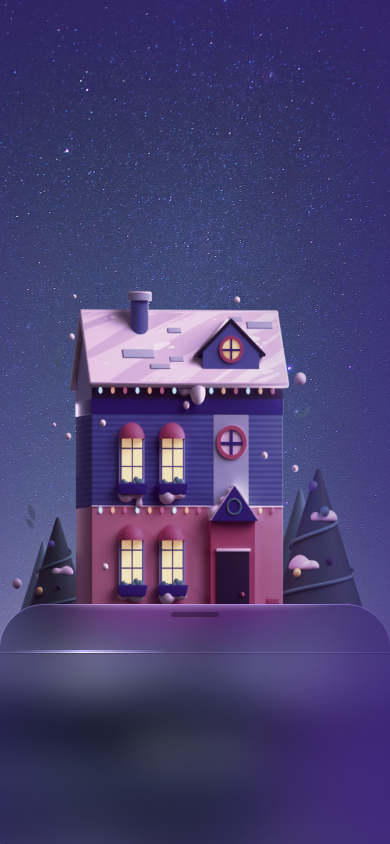
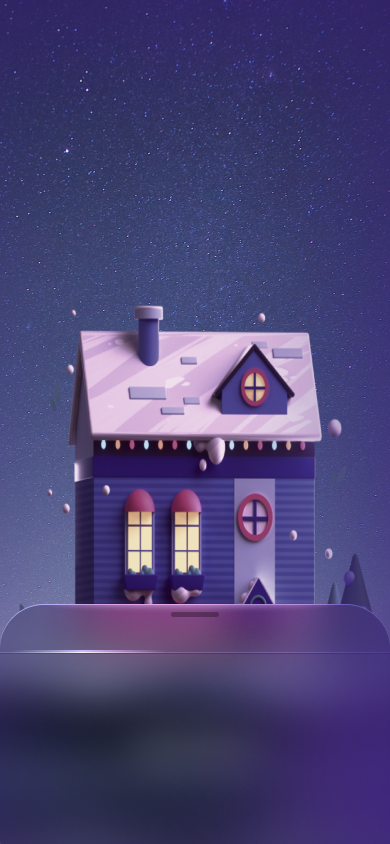
change home screen ui to be more simple

Changed region(s): [[0.0, 0.3389, 0.9538, 0.8009], [0.0615, 0.5853, 0.0923, 0.6161]]

diff --git a/lib/features/home/presentation/screens/home_screen.dart b/lib/features/home/presentation/screens/home_screen.dart
@@ -1,5 +1,6 @@
 import 'package:flutter/material.dart';
 import 'package:weather_app/core/helper/colors_class.dart';
+import 'package:weather_app/core/helper/constant.dart';
 import 'package:weather_app/core/widgets/custom_background.dart';
 import 'package:weather_app/features/home/presentation/widgets/build_hourly_forecast.dart';
 
@@ -10,7 +11,15 @@ class HomeScreen extends StatelessWidget {
   Widget build(BuildContext context) {
     return Scaffold(
       //backgroundColor: Colors.deepPurple,
-      body: CustomBackground(
+      body: Container(
+        width: double.infinity,
+        height: double.infinity,
+        decoration: const BoxDecoration(
+          image: DecorationImage(
+            image: AssetImage(bg_onboarding),
+            fit: BoxFit.cover,
+          ),
+        ),
         child: SafeArea(
           child: Padding(
             padding: const EdgeInsets.all(16.0),
@@ -18,43 +27,38 @@ class HomeScreen extends StatelessWidget {
               crossAxisAlignment: CrossAxisAlignment.center,
               children: [
                 SizedBox(
-                  height: 25,
+                  height: 50,
                 ),
                 Text(
                   'Montreal',
                   style: TextStyle(
                     color: Colors.white,
                     fontSize: 32,
-                    fontWeight: FontWeight.bold,
                   ),
                 ),
                 Text(
-                  '19° | Mostly Clear',
+                  '19°',
                   style: TextStyle(
-                    color: Colors.white70,
-                    fontSize: 18,
+                    color: Colors.white,
+                    fontSize: 50,
                   ),
                 ),
-                const SizedBox(height: 20),
-                buildHourlyForecast(),
-                const SizedBox(height: 20),
-                Expanded(
-                  child: GridView.count(
-                    shrinkWrap: true,
-                    crossAxisCount: 2,
-                    childAspectRatio: 2.5,
-                    mainAxisSpacing: 15,
-                    crossAxisSpacing: 15,
-                    children: [
-                      buildInfoCard(
-                          'Air Quality', '3-Low Health Risk', Icons.air),
-                      buildInfoCard('UV Index', '4 Moderate', Icons.wb_sunny),
-                      buildInfoCard('Sunrise', '5:28 AM', Icons.wb_twilight),
-                      buildInfoCard(
-                          'Rainfall', '1.8 mm in last hour', Icons.water_drop),
-                    ],
+                Text(
+                  'Mostly Clear',
+                  style: TextStyle(
+                    color: Colors.white70,
+                    fontSize: 19,
                   ),
-                )
+                ),
+                Text(
+                  'L:19°   H:20°',
+                  style: TextStyle(
+                    color: Colors.white,
+                    fontSize: 19,
+                  ),
+                ),
+                const SizedBox(height: 400),
+                buildHourlyForecast(),
               ],
             ),
           ),

diff --git a/lib/core/widgets/custom_textformfield.dart b/lib/core/widgets/custom_textformfield.dart
@@ -26,6 +26,7 @@ class CustomTextformfield extends StatelessWidget {
       cursorColor: MyColors().primaryColor,
       //decoration
       decoration: InputDecoration(
+        
           filled: true,
           fillColor: MyColors().c2,
           labelText: label,
